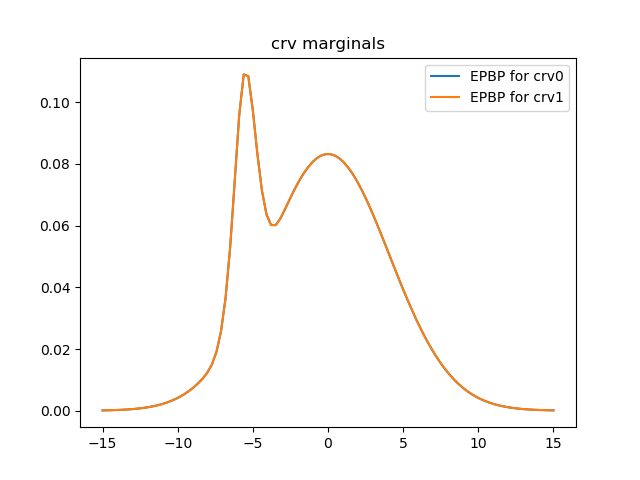
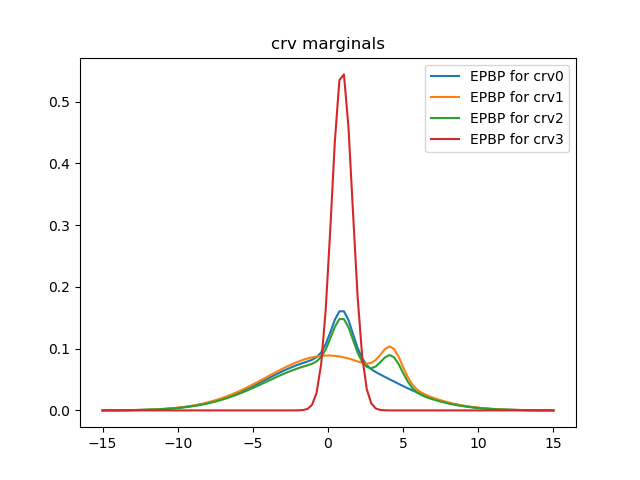
try hmln_experiment_just_{epbp|experiment} on a slightly larger hmln, with crv margs no longer identical to each other; EBP still mysteriously identical to exact

diff --git a/osi/hmln_experiment_just_baseline.py b/osi/hmln_experiment_just_baseline.py
@@ -12,7 +12,7 @@ import time
 
 from copy import copy
 
-seed = 1
+seed = 3
 utils.set_seed(seed)
 
 from hybrid_gaussian_mrf import HybridGaussianSampler
@@ -22,7 +22,7 @@ import sampling_utils
 
 from KLDivergence import kl_continuous_logpdf
 
-num_x = 2
+num_x = 4
 num_y = 2
 
 X = []
@@ -99,7 +99,7 @@ for test_num in range(num_tests):
             if x != y:
                 data[('D', x, y)] = np.random.randint(2)
 
-    evidence_ratio = 0.1
+    evidence_ratio = 0.5
     x_idx = np.random.choice(len(X), int(len(X) * evidence_ratio), replace=False)
     for i in x_idx:
         data['C', X[i], 'T1'] = np.random.randint(2)

diff --git a/osi/hmln_experiment_just_epbp.py b/osi/hmln_experiment_just_epbp.py
@@ -12,12 +12,12 @@ import time
 
 # from copy import copy
 
-seed = 1
+seed = 3
 utils.set_seed(seed)
 
 from KLDivergence import kl_continuous_logpdf
 
-num_x = 2
+num_x = 4
 num_y = 2
 
 X = []
@@ -94,7 +94,7 @@ for test_num in range(num_tests):
             if x != y:
                 data[('D', x, y)] = np.random.randint(2)
 
-    evidence_ratio = 0.1
+    evidence_ratio = 0.5
     x_idx = np.random.choice(len(X), int(len(X) * evidence_ratio), replace=False)
     for i in x_idx:
         data['C', X[i], 'T1'] = np.random.randint(2)
